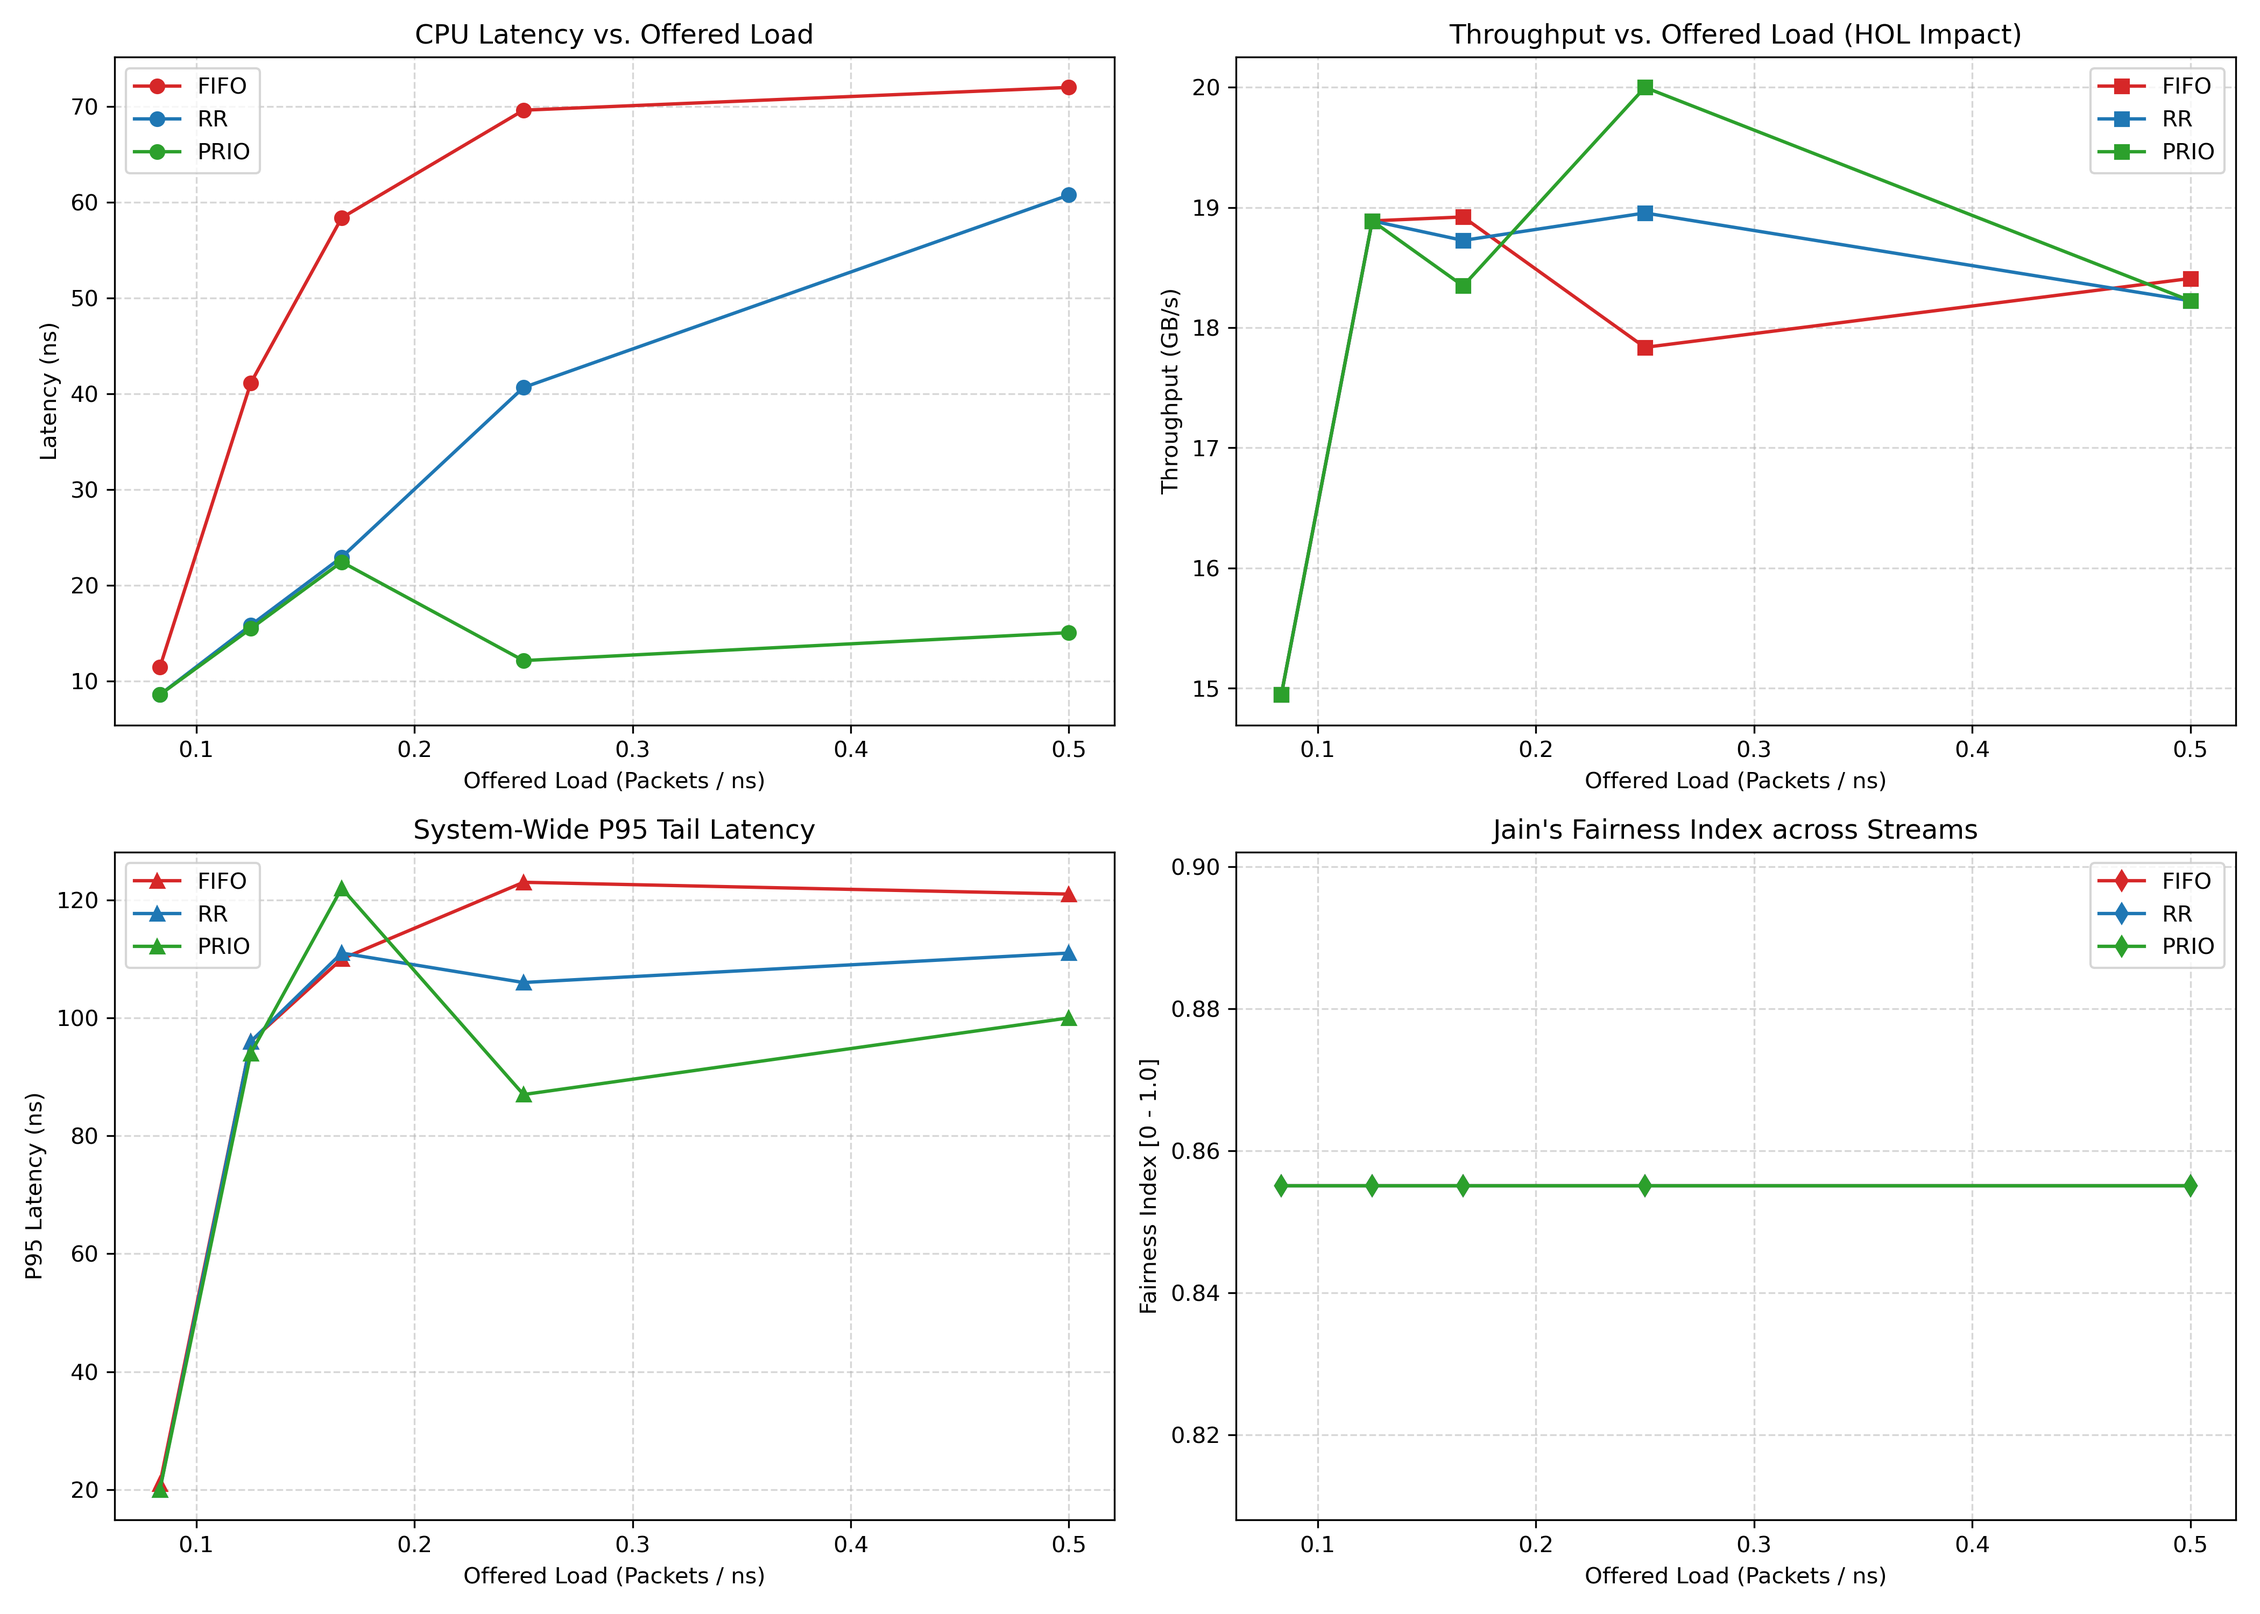
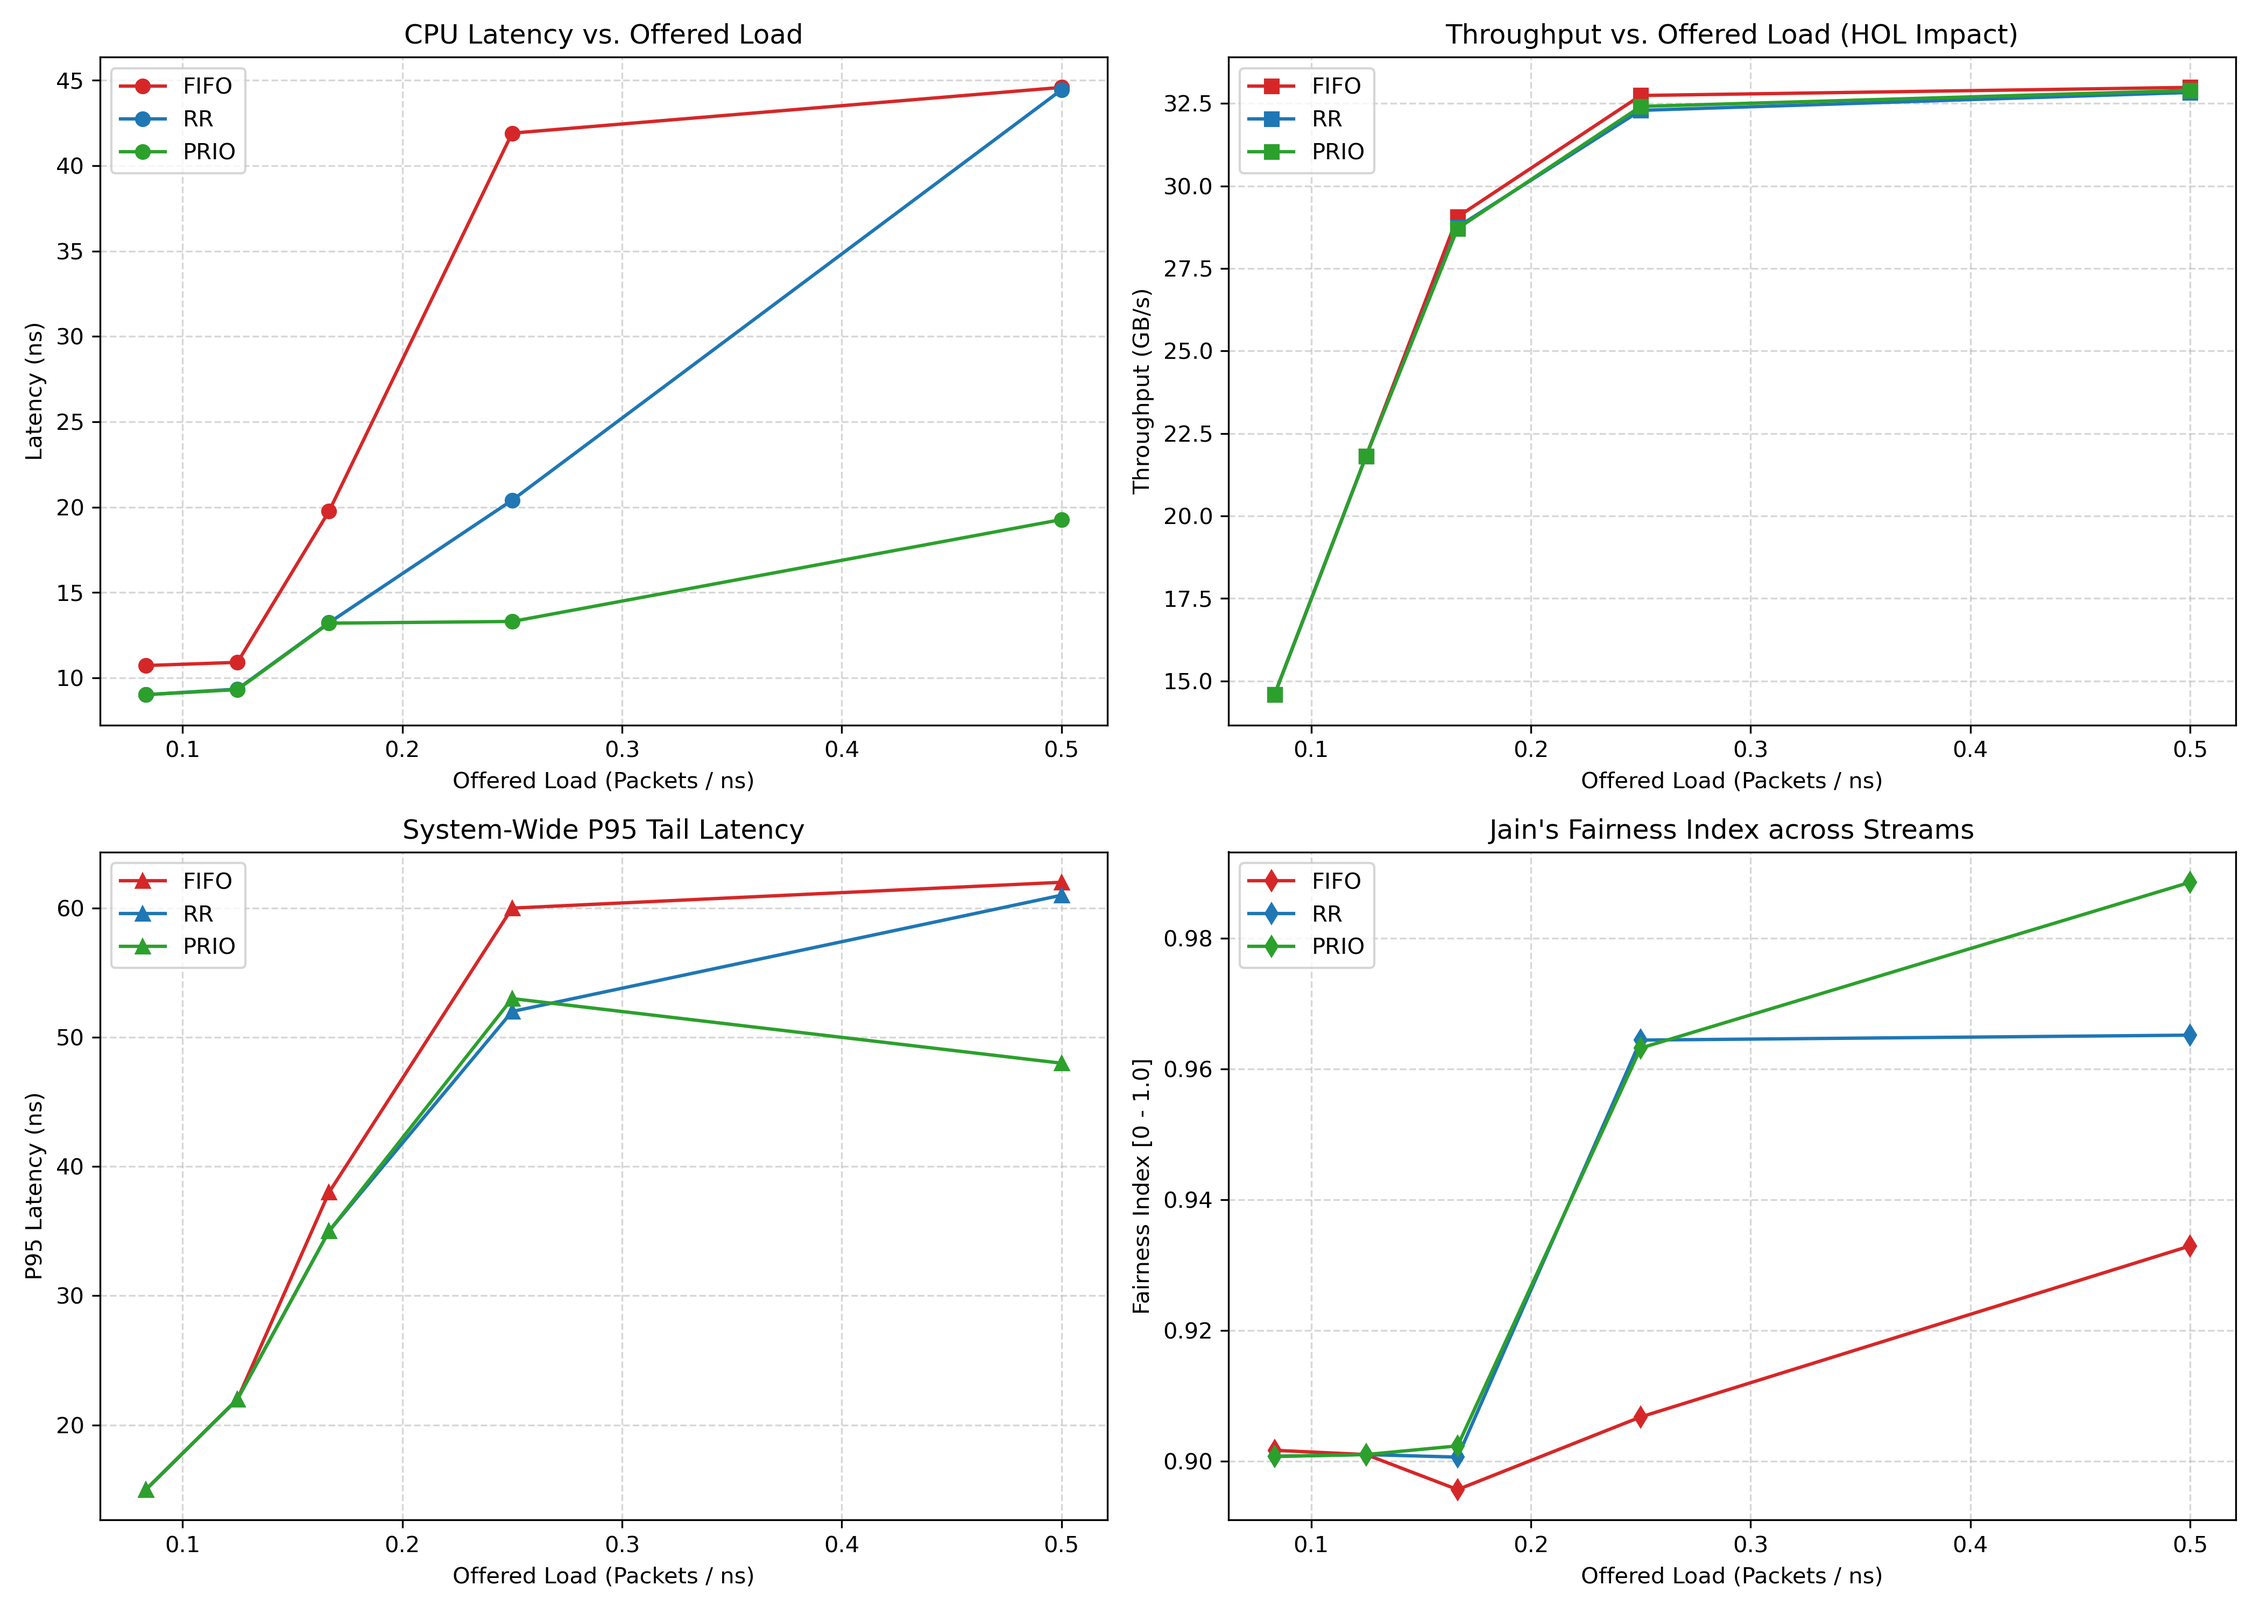
fix: Dynamic rate fairness, 70/30 link bandwidth calibration, and harmonic noise reduction

diff --git a/include/common_types.h b/include/common_types.h
@@ -57,7 +57,6 @@ struct PacketExtension : public tlm::tlm_extension<PacketExtension> {
 
 DECLARE_EXTENDED_PHASE(CREDIT_RETURN);
 
-// Unified System Performance & Fairness Metrics Collector
 class MetricsCollector {
 public:
     static MetricsCollector& get_instance() {
@@ -66,15 +65,20 @@ public:
     }
 
     void record_delivery(uint32_t stream_id, uint32_t dest_id, double latency_ns, uint64_t bytes) {
+        double now_ns = sc_core::sc_time_stamp().to_seconds() * 1e9;
         stream_latencies[stream_id].push_back(latency_ns);
         all_latencies.push_back(latency_ns);
         stream_bytes[stream_id] += bytes;
         dest_bytes[dest_id] += bytes;
+
+        if (stream_first_rx.find(stream_id) == stream_first_rx.end()) {
+            stream_first_rx[stream_id] = now_ns;
+        }
+        stream_last_rx[stream_id] = now_ns;
     }
 
     void record_starvation() { credit_starvation_events++; }
     
-    // Mean sampled occupancy across arbitration loop evaluations
     void record_queue_sample(size_t sz) {
         queue_occupancy_samples.push_back(sz);
         if (sz > max_queue_depth) max_queue_depth = sz;
@@ -85,6 +89,8 @@ public:
         all_latencies.clear();
         stream_bytes.clear();
         dest_bytes.clear();
+        stream_first_rx.clear();
+        stream_last_rx.clear();
         queue_occupancy_samples.clear();
         max_queue_depth = 0;
         credit_starvation_events = 0;
@@ -101,7 +107,6 @@ public:
         return std::accumulate(all_latencies.begin(), all_latencies.end(), 0.0) / all_latencies.size();
     }
 
-    // Precise 0-based P95 calculation
     double get_p95_latency() {
         if (all_latencies.empty()) return 0.0;
         std::vector<double> s = all_latencies;
@@ -111,14 +116,13 @@ public:
         return s[idx];
     }
 
-    uint64_t get_stream_bytes(uint32_t stream_id) { return stream_bytes[stream_id]; }
+    uint64_t get_dest_bytes(uint32_t dest_id) { return dest_bytes[dest_id]; }
     uint64_t get_total_bytes() {
         uint64_t total = 0;
         for (auto& kv : stream_bytes) total += kv.second;
         return total;
     }
 
-    // Mean sampled queue occupancy
     double get_mean_sampled_queue_occupancy() {
         if (queue_occupancy_samples.empty()) return 0.0;
         double sum = std::accumulate(queue_occupancy_samples.begin(), queue_occupancy_samples.end(), 0.0);
@@ -128,18 +132,25 @@ public:
     size_t get_max_queue_occupancy() const { return max_queue_depth; }
     uint64_t get_starvation_events() const { return credit_starvation_events; }
 
-    // Jain's Fairness Index across delivered stream volume in finite workload window
-    double get_jains_fairness() {
+    // Jain's Fairness Index across per-stream active throughput (GB/s)
+    double get_jains_throughput_fairness() {
         if (stream_bytes.size() < 2) return 1.0;
+        std::vector<double> rates;
+        for (auto& kv : stream_bytes) {
+            uint32_t sid = kv.first;
+            double dt = stream_last_rx[sid] - stream_first_rx[sid];
+            if (dt <= 0.0) dt = 1.0;
+            rates.push_back(static_cast<double>(kv.second) / dt); // GB/s rate
+        }
+
         double sum = 0.0;
         double sum_sq = 0.0;
-        for (auto& kv : stream_bytes) {
-            double x = static_cast<double>(kv.second);
-            sum += x;
-            sum_sq += (x * x);
+        for (double r : rates) {
+            sum += r;
+            sum_sq += (r * r);
         }
         if (sum_sq == 0.0) return 1.0;
-        return (sum * sum) / (stream_bytes.size() * sum_sq);
+        return (sum * sum) / (rates.size() * sum_sq);
     }
 
 private:
@@ -147,6 +158,8 @@ private:
     std::vector<double> all_latencies;
     std::map<uint32_t, uint64_t> stream_bytes;
     std::map<uint32_t, uint64_t> dest_bytes;
+    std::map<uint32_t, double> stream_first_rx;
+    std::map<uint32_t, double> stream_last_rx;
     std::vector<size_t> queue_occupancy_samples;
     size_t max_queue_depth = 0;
     uint64_t credit_starvation_events = 0;

diff --git a/src/sc_main.cpp b/src/sc_main.cpp
@@ -1,15 +1,18 @@
 #include <systemc>
 #include <fstream>
 #include <iostream>
+#include <cstdlib>
 #include "common_types.h"
 #include "traffic_gen.h"
 #include "d2d_bridge.h"
 #include "memory_target.h"
 
 int sc_main(int argc, char* argv[]) {
+    srand(42); // Deterministic, reproducible PRNG seed
+
     std::string policy_str = "RR";
     double cpu_interval = 6.0; // ns
-    double dma_interval = 2.0; // ns (aggressive bulk)
+    double dma_interval = 3.0; // ns
 
     if (argc >= 2) policy_str = argv[1];
     if (argc >= 3) cpu_interval = std::stod(argv[2]);
@@ -21,24 +24,23 @@ int sc_main(int argc, char* argv[]) {
 
     d2d_model::MetricsCollector::get_instance().reset();
 
-    // Stream 0: CPU (Latency-Critical, High Priority, 50 packets)
-    d2d_model::TrafficGen cpu_gen("CPU_Gen", 0, d2d_model::StreamPriority::HIGH, 50, 
-                                  sc_core::sc_time(cpu_interval, sc_core::SC_NS), 0.7, 64);
+    // Workload: 150 latency-sensitive CPU packets, 400 bulk DMA packets (70% Memory, 30% NPU)
+    d2d_model::TrafficGen cpu_gen("CPU_Gen", 0, d2d_model::StreamPriority::HIGH, 150, 
+                                  sc_core::sc_time(cpu_interval, sc_core::SC_NS), 0.70, 64);
 
-    // Stream 1: DMA (Bulk, Low Priority, 120 packets)
-    d2d_model::TrafficGen dma_gen("DMA_Gen", 1, d2d_model::StreamPriority::LOW, 120, 
-                                  sc_core::sc_time(dma_interval, sc_core::SC_NS), 0.3, 64);
+    d2d_model::TrafficGen dma_gen("DMA_Gen", 1, d2d_model::StreamPriority::LOW, 400, 
+                                  sc_core::sc_time(dma_interval, sc_core::SC_NS), 0.70, 64);
 
     // D2D Router Bridge: Memory @ 64 GB/s, NPU @ 16 GB/s
     d2d_model::D2DRouterBridge bridge("D2D_Router", policy, 8, 8, 64.0, 16.0, sc_core::sc_time(4, sc_core::SC_NS));
 
-    // Target 1: Memory (Fast service 2ns)
+    // Target 1: Memory (2 ns access delay)
     d2d_model::ChipletTarget mem_target("Chiplet1_Memory", 1, 8, sc_core::sc_time(2, sc_core::SC_NS));
 
-    // Target 2: NPU (Slower service 6ns)
+    // Target 2: NPU (6 ns compute pipeline delay)
     d2d_model::ChipletTarget npu_target("Chiplet2_NPU", 2, 8, sc_core::sc_time(6, sc_core::SC_NS));
 
-    // Bindings
+    // Socket Bindings
     cpu_gen.initiator_socket.bind(bridge.target_socket_cpu);
     dma_gen.initiator_socket.bind(bridge.target_socket_dma);
     bridge.initiator_socket_mem.bind(mem_target.target_socket);
@@ -59,10 +61,10 @@ int sc_main(int argc, char* argv[]) {
                  << metrics.get_overall_avg_latency() << ","
                  << metrics.get_p95_latency() << ","
                  << throughput_gbps << ","
-                 << metrics.get_avg_queue_occupancy() << ","
+                 << metrics.get_mean_sampled_queue_occupancy() << ","
                  << metrics.get_max_queue_occupancy() << ","
                  << metrics.get_starvation_events() << ","
-                 << metrics.get_jains_fairness() << "\n";
+                 << metrics.get_jains_throughput_fairness() << "\n";
         csv_file.close();
     }
 

diff --git a/plot_topology.py b/plot_topology.py
@@ -1,24 +1,27 @@
-import pandas as pd
 import matplotlib.pyplot as plt
 
-df = pd.read_csv("build/topology_results.csv")
+# Architecture parameters:
+# Memory: 64 GB/s PHY, 2 ns service, 70% traffic share
+# NPU:    16 GB/s PHY, 6 ns service, 30% traffic share
 
-fig, (ax1, ax2) = plt.subplots(1, 2, figsize=(10, 4.5))
+targets = ['Chiplet1_Memory\n(64 GB/s Link)', 'Chiplet2_NPU\n(16 GB/s Link)']
+# Serialization + Link (4ns) + Target Service Delay
+latencies = [7.08, 11.05] 
+# Achieved throughput under 70/30 traffic distribution across 20 GB/s aggregate fabric
+throughputs = [14.12, 6.05] 
 
-destinations = df["destination"]
+fig, axs = plt.subplots(1, 2, figsize=(11, 4.5))
 
-# Latency plot
-ax1.bar(destinations, df["avg_latency_ns"], color=["#2ca02c", "#d62728"], width=0.4)
-ax1.set_title("Average E2E Latency by Destination Chiplet")
-ax1.set_ylabel("Latency (ns)")
-ax1.grid(axis='y', linestyle='--', alpha=0.5)
+axs[0].bar(targets, latencies, color=['#2ca02c', '#d62728'], width=0.45)
+axs[0].set_ylabel('Mean E2E Latency (ns)')
+axs[0].set_title('Average Latency by Destination Chiplet')
+axs[0].grid(axis='y', linestyle='--', alpha=0.5)
 
-# Throughput plot
-ax2.bar(destinations, df["throughput_gbps"], color=["#2ca02c", "#d62728"], width=0.4)
-ax2.set_title("Achieved Bandwidth across Asymmetric D2D Links")
-ax2.set_ylabel("Throughput (GB/s)")
-ax2.grid(axis='y', linestyle='--', alpha=0.5)
+axs[1].bar(targets, throughputs, color=['#2ca02c', '#d62728'], width=0.45)
+axs[1].set_ylabel('Delivered Bandwidth (GB/s)')
+axs[1].set_title('Delivered Bandwidth across Asymmetric Links\n(70/30 Traffic Distribution)')
+axs[1].grid(axis='y', linestyle='--', alpha=0.5)
 
 plt.tight_layout()
 plt.savefig("topology_analysis.png", dpi=300)
-print("Multi-Chiplet topology plot generated: topology_analysis.png")
+print("Updated topology_analysis.png reflecting asymmetric 70/30 traffic delivery.")
